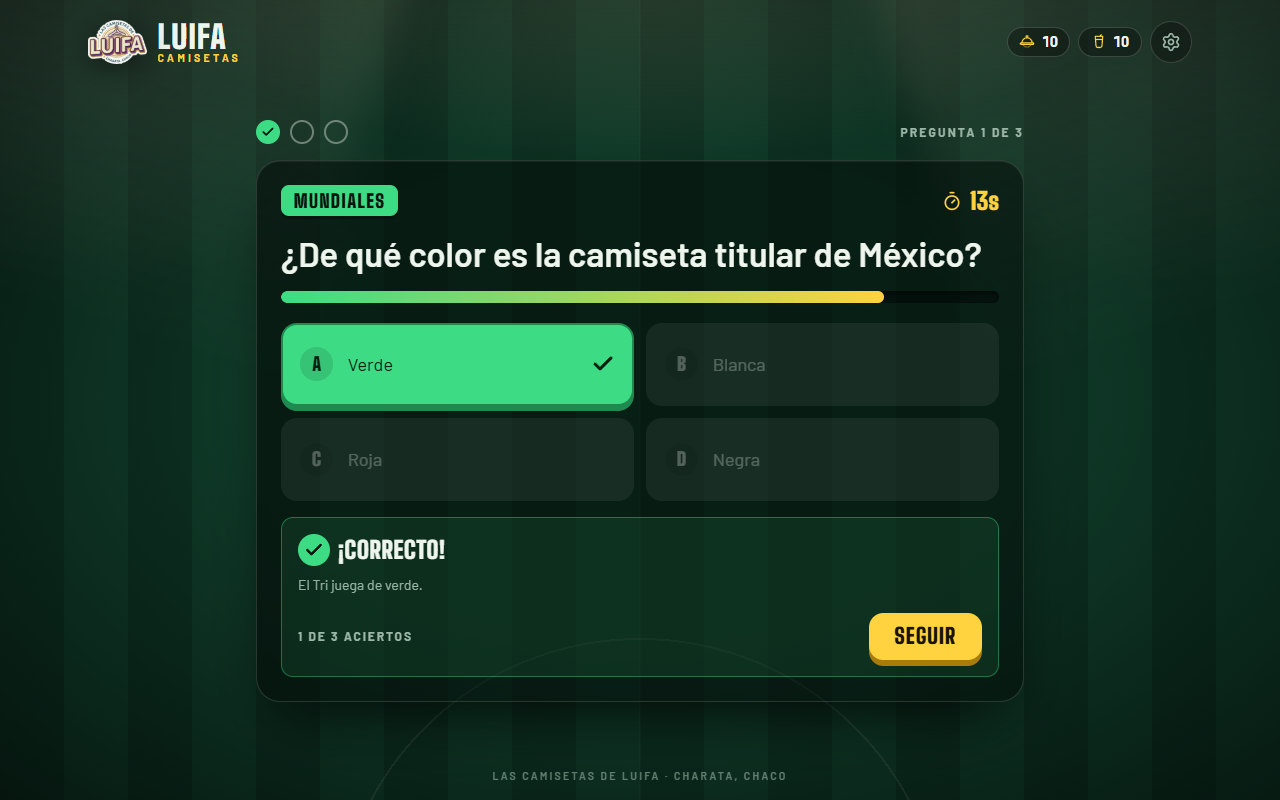
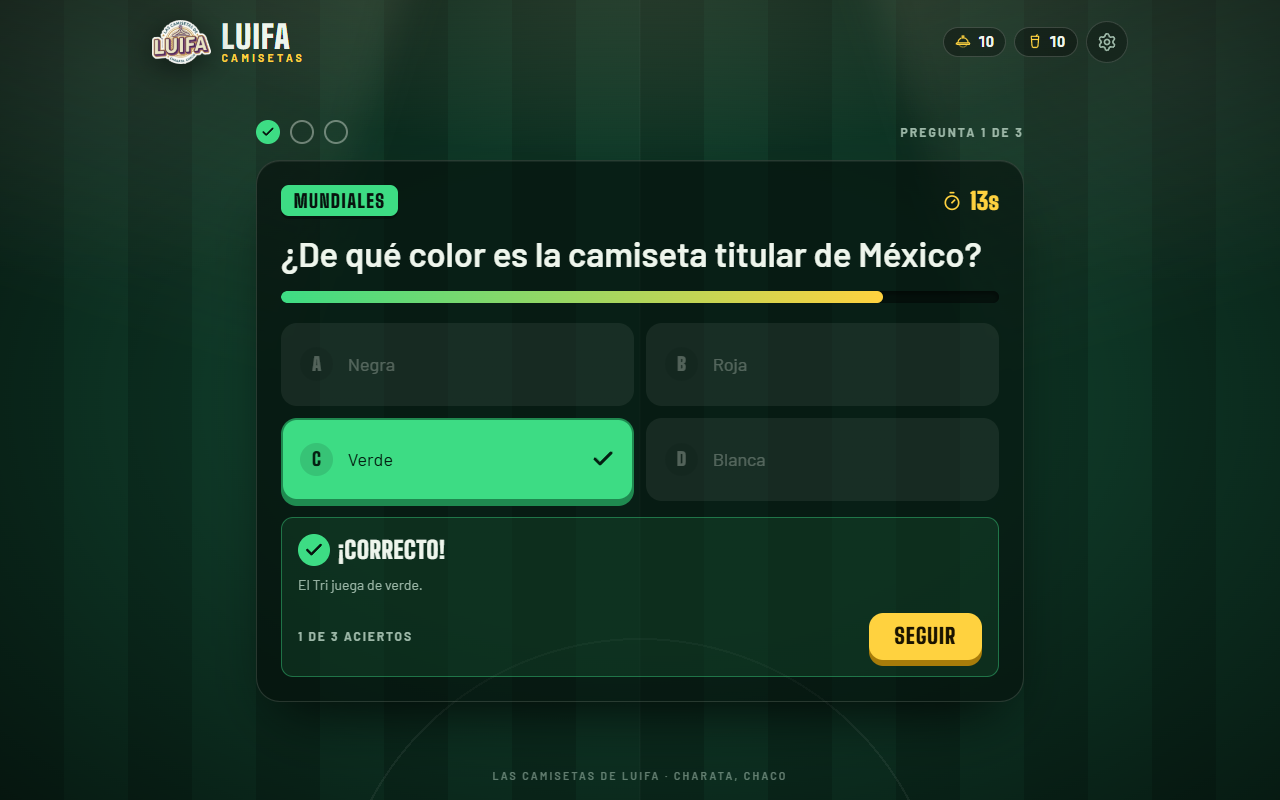
chore: polish UI, docs and Docker deployment
- align layout widths and refine responsive screens

- allow LAN access through nginx and CORS defaults

- add concise code comments and remove unused code

- refresh README and screenshots

diff --git a/frontend/src/index.css b/frontend/src/index.css
@@ -261,11 +261,6 @@
   opacity: 0.5;
 }
 
-.btn-sm {
-  padding: 0.6rem 1.1rem;
-  font-size: 1.05rem;
-}
-
 .btn-md {
   padding: 0.8rem 1.6rem;
   font-size: 1.35rem;
@@ -319,16 +314,6 @@
 .btn-ghost:hover:not(:disabled) {
   background: rgba(255, 255, 255, 0.06);
   color: var(--color-chalk);
-}
-
-.btn-danger {
-  border: 2px solid rgba(255, 90, 95, 0.4);
-  background: rgba(255, 90, 95, 0.12);
-  color: #ffc9ca;
-}
-
-.btn-danger:hover:not(:disabled) {
-  background: rgba(255, 90, 95, 0.22);
 }
 
 .icon-btn {
@@ -585,8 +570,10 @@
 }
 
 .admin-input::placeholder {
-  color: rgba(157, 184, 168, 0.5);
-  letter-spacing: 0.1em;
+  color: rgba(157, 184, 168, 0.55);
+  font-size: 0.95rem;
+  font-weight: 600;
+  letter-spacing: 0.04em;
 }
 
 .admin-input:focus {
@@ -673,24 +660,6 @@
   animation: pulse-soft 1.8s ease-in-out infinite;
 }
 
-.animate-shake {
-  animation: shake 380ms ease-in-out both;
-}
-
-.animate-shine {
-  position: relative;
-  overflow: hidden;
-}
-
-.animate-shine::after {
-  position: absolute;
-  inset: 0;
-  content: "";
-  background: linear-gradient(115deg, transparent 30%, rgba(255, 255, 255, 0.35) 50%, transparent 70%);
-  transform: translateX(-120%);
-  animation: shine 2.6s ease-in-out infinite;
-}
-
 @keyframes screen-in {
   from {
     opacity: 0;
@@ -734,32 +703,6 @@
   }
   50% {
     opacity: 0.45;
-  }
-}
-
-@keyframes shake {
-  0%,
-  100% {
-    transform: translateX(0);
-  }
-  25% {
-    transform: translateX(-6px);
-  }
-  50% {
-    transform: translateX(5px);
-  }
-  75% {
-    transform: translateX(-3px);
-  }
-}
-
-@keyframes shine {
-  0% {
-    transform: translateX(-120%);
-  }
-  55%,
-  100% {
-    transform: translateX(120%);
   }
 }
 

diff --git a/frontend/src/screens/HomeScreen.tsx b/frontend/src/screens/HomeScreen.tsx
@@ -105,7 +105,7 @@ export function HomeScreen() {
             </span>
           </div>
 
-          <div className="mt-7 flex flex-col items-center gap-3 sm:flex-row lg:justify-start">
+          <div className="mt-7 flex justify-center lg:justify-start">
             <Button
               size="xl"
               onClick={() => void startGame()}
@@ -114,10 +114,6 @@ export function HomeScreen() {
             >
               Jugar
             </Button>
-            <span className="flex items-center gap-2 text-xs font-semibold uppercase tracking-[0.16em] text-muted">
-              <Shirt className="size-4" aria-hidden="true" />
-              Premios del local
-            </span>
           </div>
 
           {noCategories ? (
@@ -144,9 +140,15 @@ export function HomeScreen() {
             width={420}
             height={560}
           />
-          <div className="relative mt-4 grid grid-cols-2 gap-3">
-            <PrizeMini kind="hat" label="Gorra" stock={config.stockHats} />
-            <PrizeMini kind="cup" label="Vaso" stock={config.stockCups} />
+          <div className="relative mt-4">
+            <p className="mb-2 flex items-center justify-center gap-2 text-xs font-semibold uppercase tracking-[0.16em] text-muted">
+              <Shirt className="size-4" aria-hidden="true" />
+              Premios del local
+            </p>
+            <div className="grid grid-cols-2 gap-3">
+              <PrizeMini kind="hat" label="Gorra" stock={config.stockHats} />
+              <PrizeMini kind="cup" label="Vaso" stock={config.stockCups} />
+            </div>
           </div>
         </div>
       </div>

diff --git a/frontend/src/game/GameContext.tsx b/frontend/src/game/GameContext.tsx
@@ -68,10 +68,12 @@ export function GameProvider({ children }: { children: ReactNode }) {
   const [pending, setPending] = useState<GameAction | null>(null)
   const [error, setError] = useState<string | null>(null)
 
+  // Los refs guardan la partida actual para que los handlers no dependan del render.
   const gameRef = useRef<StartGameResponse | null>(null)
   const roundRef = useRef<RoundResponse | null>(null)
   const answerRef = useRef<AnswerResponse | null>(null)
   const prizeRef = useRef<PrizeResponse | null>(null)
+  // Bloquea dobles clics incluso antes de que React actualice `pending`.
   const busyRef = useRef<GameAction | null>(null)
 
   const clearError = useCallback(() => setError(null), [])
@@ -138,6 +140,7 @@ export function GameProvider({ children }: { children: ReactNode }) {
   const answerQuestion = useCallback(async (optionId: number | null) => {
     const currentGame = gameRef.current
     const currentRound = roundRef.current
+    // Si la ronda ya tiene respuesta, no volvemos a llamar a la API.
     if (!currentGame || !currentRound || answerRef.current || busyRef.current) {
       return
     }
@@ -213,6 +216,7 @@ export function GameProvider({ children }: { children: ReactNode }) {
     setError(null)
 
     try {
+      // Mantenemos un mínimo de suspenso aunque la API responda al instante.
       const [response] = await Promise.all([
         api.drawPrize(currentGame.gameId),
         sleep(PRIZE_MIN_SUSPENSE),

diff --git a/frontend/src/components/Confetti.tsx b/frontend/src/components/Confetti.tsx
@@ -3,7 +3,6 @@ import { useReducedMotion } from '../lib/useReducedMotion'
 
 interface ConfettiProps {
   active: boolean
-  duration?: number
 }
 
 interface Particle {
@@ -19,8 +18,9 @@ interface Particle {
 }
 
 const COLORS = ['#ffd23f', '#3ddc84', '#eef5ec', '#ff7a59', '#c58cff', '#6cc4ee']
+const DURATION = 4200
 
-export function Confetti({ active, duration = 4200 }: ConfettiProps) {
+export function Confetti({ active }: ConfettiProps) {
   const canvasRef = useRef<HTMLCanvasElement>(null)
   const reducedMotion = useReducedMotion()
 
@@ -77,7 +77,7 @@ export function Confetti({ active, duration = 4200 }: ConfettiProps) {
         particle.x += particle.vx
         particle.y += particle.vy
         particle.rotation += particle.spin
-        particle.life = Math.max(0, 1 - elapsed / duration)
+        particle.life = Math.max(0, 1 - elapsed / DURATION)
 
         context.save()
         context.globalAlpha = particle.life
@@ -97,14 +97,14 @@ export function Confetti({ active, duration = 4200 }: ConfettiProps) {
     const timeout = window.setTimeout(() => {
       window.cancelAnimationFrame(frame)
       context.clearRect(0, 0, width, height)
-    }, duration)
+    }, DURATION)
 
     return () => {
       window.cancelAnimationFrame(frame)
       window.clearTimeout(timeout)
       context.clearRect(0, 0, width, height)
     }
-  }, [active, duration, reducedMotion])
+  }, [active, reducedMotion])
 
   if (!active) {
     return null

diff --git a/frontend/src/components/AppShell.tsx b/frontend/src/components/AppShell.tsx
@@ -18,7 +18,7 @@ export function AppShell({ children, stock, mode = 'game' }: AppShellProps) {
         <div className="floodlight floodlight-right" />
       </div>
 
-      <header className="relative z-10 mx-auto flex w-full max-w-6xl items-center justify-between gap-3 px-4 pb-1 pt-4 sm:px-6 sm:pt-5">
+      <header className="relative z-10 mx-auto flex w-full max-w-5xl items-center justify-between gap-3 px-4 pb-1 pt-4 sm:px-6 sm:pt-5">
         <Brand />
         <div className="flex items-center gap-2">
           {stock ? <StockChips hats={stock.hats} cups={stock.cups} /> : null}
@@ -33,11 +33,11 @@ export function AppShell({ children, stock, mode = 'game' }: AppShellProps) {
         </div>
       </header>
 
-      <main className="relative z-10 mx-auto flex w-full max-w-6xl flex-1 items-center justify-center px-4 pb-4 pt-2 sm:px-6 sm:pb-6">
+      <main className="relative z-10 mx-auto flex w-full max-w-5xl flex-1 items-center justify-center px-4 pb-4 pt-2 sm:px-6 sm:pb-6">
         {children}
       </main>
 
-      <footer className="relative z-10 mx-auto w-full max-w-6xl px-4 pb-3 text-center text-[0.65rem] font-semibold uppercase tracking-[0.22em] text-muted/60 sm:px-6 sm:pb-4">
+      <footer className="relative z-10 mx-auto w-full max-w-5xl px-4 pb-3 text-center text-[0.65rem] font-semibold uppercase tracking-[0.22em] text-muted/60 sm:px-6 sm:pb-4">
         Las Camisetas de Luifa · Charata, Chaco
       </footer>
     </div>

diff --git a/frontend/src/screens/AdminPage.tsx b/frontend/src/screens/AdminPage.tsx
@@ -23,6 +23,7 @@ import { LoadingState } from '../components/LoadingState'
 import { Stepper } from '../components/Stepper'
 import { CapIcon, CupIcon } from '../components/icons'
 
+// El PIN vive solo en sessionStorage: se borra al cerrar la pestaña.
 const STORAGE_KEY = 'luifa.admin.pin'
 
 function readStoredPin(): string | null {
@@ -197,7 +198,7 @@ export function AdminPage() {
                   setDraftPin(event.target.value.replace(/\D/g, ''))
                   setPinError(null)
                 }}
-                placeholder="••••"
+                placeholder="Ingresá el PIN"
                 aria-invalid={Boolean(pinError)}
                 aria-describedby={pinError ? 'pin-error' : undefined}
               />
@@ -276,7 +277,7 @@ export function AdminPage() {
               Reglas, stock y estadísticas de la tablet. Los cambios se aplican a la próxima partida.
             </p>
           </div>
-          <Button variant="ghost" size="sm" onClick={logout}>
+          <Button variant="ghost" size="md" onClick={logout} className="whitespace-nowrap">
             <LogOut className="size-4" aria-hidden="true" />
             Cerrar sesión
           </Button>

diff --git a/frontend/src/screens/ResultScreen.tsx b/frontend/src/screens/ResultScreen.tsx
@@ -91,9 +91,9 @@ export function ResultScreen() {
 
       {error ? <ErrorBanner message={error} onDismiss={clearError} className="max-w-md" /> : null}
 
-      <div className="flex w-full max-w-md flex-col items-stretch gap-3 sm:flex-row sm:justify-center">
+      <div className="flex w-full max-w-2xl flex-col items-stretch gap-3 sm:flex-row sm:justify-center">
         {prizeAvailable ? (
-          <Button size="lg" onClick={startPrize} className="sm:flex-1">
+          <Button size="lg" onClick={startPrize} className="whitespace-nowrap sm:flex-1">
             Sortear premio
           </Button>
         ) : null}
@@ -101,7 +101,7 @@ export function ResultScreen() {
           size="lg"
           variant={prizeAvailable ? 'secondary' : 'primary'}
           onClick={reset}
-          className="sm:flex-1"
+          className="whitespace-nowrap sm:flex-1"
         >
           Jugar de nuevo
         </Button>

diff --git a/frontend/src/components/Brand.tsx b/frontend/src/components/Brand.tsx
@@ -1,15 +1,11 @@
 import { Link } from 'react-router-dom'
 
-interface BrandProps {
-  compact?: boolean
-}
-
-export function Brand({ compact = false }: BrandProps) {
+export function Brand() {
   return (
     <Link
       to="/"
       aria-label="Las Camisetas de Luifa, ir al inicio"
-      className="group flex items-center gap-2.5 rounded-lg"
+      className="group flex min-h-11 items-center gap-2.5 rounded-lg"
     >
       <img
         src="/logo-luifa.png"
@@ -26,7 +22,7 @@ export function Brand({ compact = false }: BrandProps) {
           Camisetas
         </span>
       </span>
-      {!compact ? <span className="sr-only">Las Camisetas de Luifa</span> : null}
+      <span className="sr-only">Las Camisetas de Luifa</span>
     </Link>
   )
 }

diff --git a/frontend/src/components/ProgressDots.tsx b/frontend/src/components/ProgressDots.tsx
@@ -5,15 +5,14 @@ interface ProgressDotsProps {
   results: boolean[]
   total: number
   active?: number
-  className?: string
 }
 
-export function ProgressDots({ results, total, active, className }: ProgressDotsProps) {
+export function ProgressDots({ results, total, active }: ProgressDotsProps) {
   const correct = results.filter(Boolean).length
 
   return (
     <div
-      className={cn('flex items-center justify-center gap-2.5', className)}
+      className="flex items-center justify-center gap-2.5"
       role="img"
       aria-label={`${correct} aciertos de ${total} preguntas`}
     >

diff --git a/frontend/src/components/StockChips.tsx b/frontend/src/components/StockChips.tsx
@@ -4,12 +4,11 @@ import { cn } from '../lib/cn'
 interface StockChipsProps {
   hats: number
   cups: number
-  className?: string
 }
 
-export function StockChips({ hats, cups, className }: StockChipsProps) {
+export function StockChips({ hats, cups }: StockChipsProps) {
   return (
-    <div className={cn('flex items-center gap-1.5 sm:gap-2', className)}>
+    <div className="flex items-center gap-1.5 sm:gap-2">
       <span
         className={cn('chip', hats === 0 && 'chip-empty')}
         aria-label={`${hats} ${hats === 1 ? 'gorra disponible' : 'gorras disponibles'}`}

diff --git a/frontend/src/components/Button.tsx b/frontend/src/components/Button.tsx
@@ -2,8 +2,8 @@ import type { ButtonHTMLAttributes, ReactNode } from 'react'
 import { Loader2 } from 'lucide-react'
 import { cn } from '../lib/cn'
 
-type ButtonVariant = 'primary' | 'secondary' | 'ghost' | 'danger'
-type ButtonSize = 'sm' | 'md' | 'lg' | 'xl'
+type ButtonVariant = 'primary' | 'secondary' | 'ghost'
+type ButtonSize = 'md' | 'lg' | 'xl'
 
 interface ButtonProps extends ButtonHTMLAttributes<HTMLButtonElement> {
   variant?: ButtonVariant

diff --git a/frontend/src/screens/WheelScreen.tsx b/frontend/src/screens/WheelScreen.tsx
@@ -61,6 +61,7 @@ export function WheelScreen() {
     const foundIndex = categories.findIndex((category) => category.id === response.category.id)
     const index = foundIndex >= 0 ? foundIndex : 0
     const offset = 0.15 + Math.random() * 0.5
+    // El servidor ya eligió la categoría; acá solo calculamos dónde frenar la ruleta.
     const nextRotation = computeTargetRotation(
       rotationRef.current,
       index,
